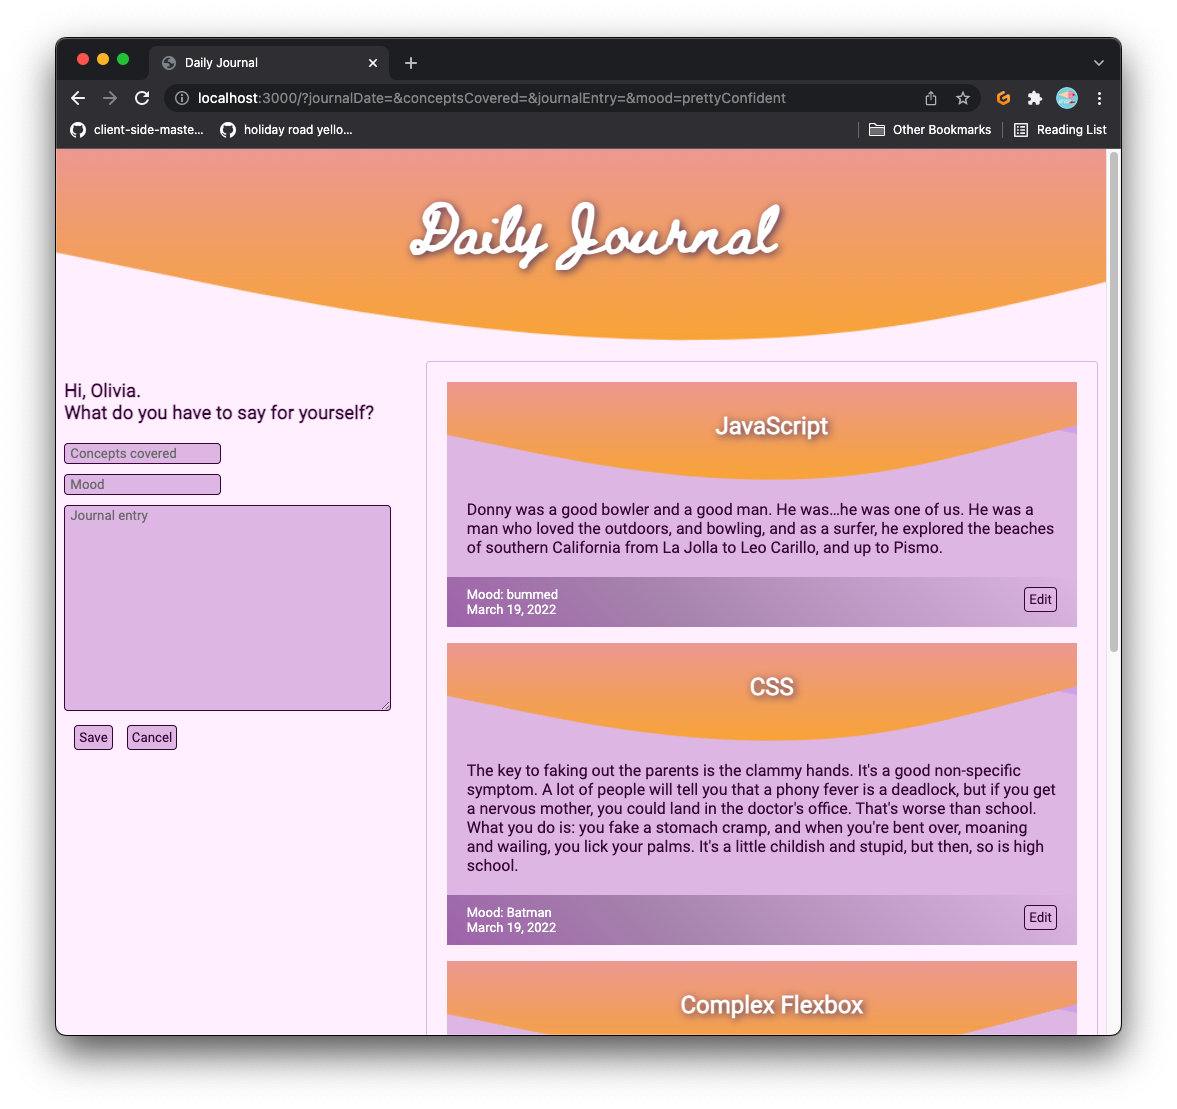
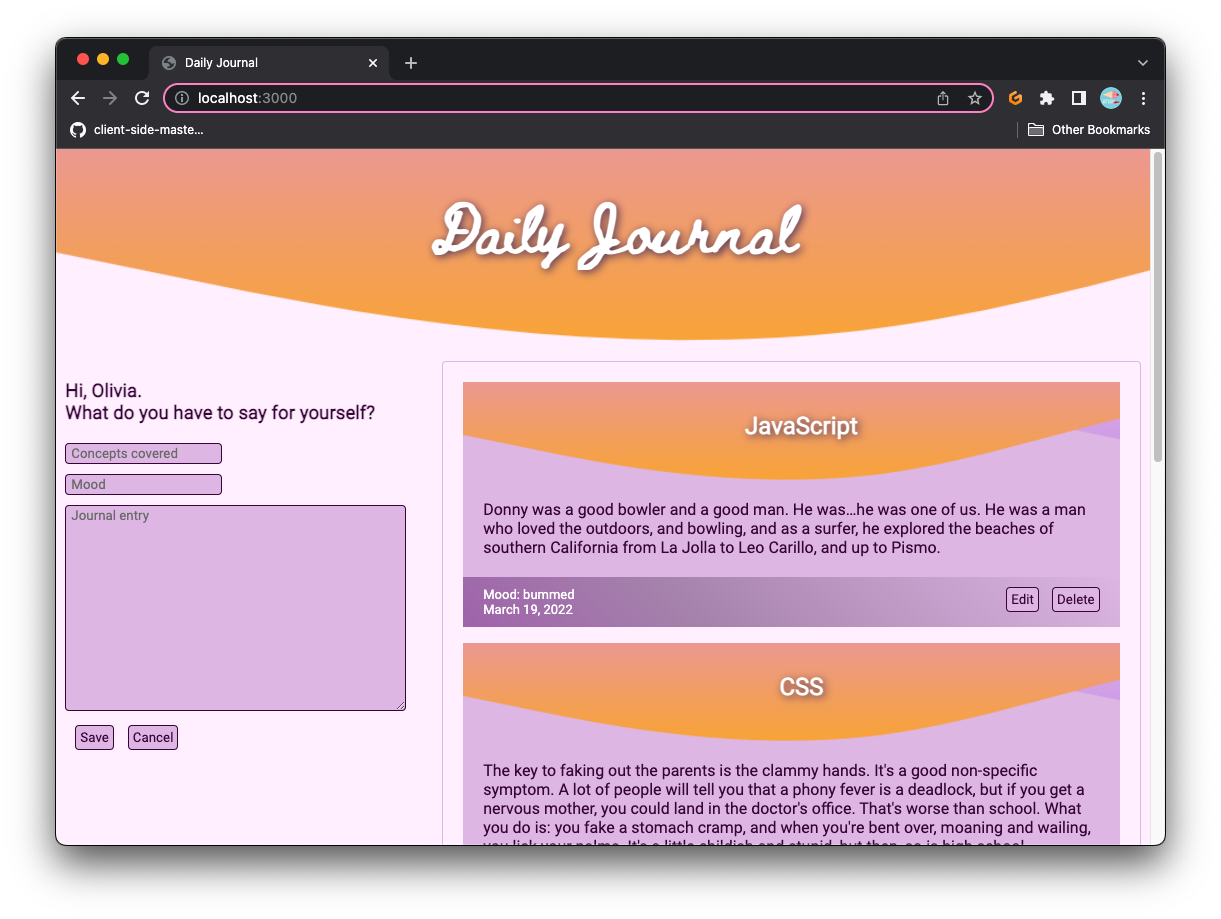
Edit and Delete post buttons now fully functional. Also updated screenshot in readme.

diff --git a/src/scripts/main.js b/src/scripts/main.js
@@ -1,6 +1,13 @@
-import { getPosts, createPost, deletePost } from "./data/DataManager.js";
+import {
+  getPosts,
+  createPost,
+  deletePost,
+  getSinglePost,
+  updatePost,
+} from "./data/DataManager.js";
 import { PostList } from "./feed/PostList.js";
 import { PostEntry } from "./feed/PostEntry.js";
+import { PostEdit } from "./feed/PostEdit.js";
 
 const showPostList = () => {
   //Get a reference to the location on the DOM where the list will display
@@ -40,18 +47,58 @@ const applicationElement = document.querySelector("main");
 applicationElement.addEventListener("click", (event) => {
   event.preventDefault();
   if (event.target.id.startsWith("delete")) {
-    const postId = event.target.id.split("--")[1];
+    const postId = event.target.id.split("__")[1];
     deletePost(postId).then((response) => {
       showPostList();
     });
   }
 });
 
-// clicks on the edit button
+// listens for clicks on the edit button and calls showEdit()
 applicationElement.addEventListener("click", (event) => {
+  event.preventDefault();
   if (event.target.id.startsWith("edit")) {
-    console.log("post clicked", event.target.id.split("--"));
-    console.log("the id is", event.target.id.split("--")[1]);
+    const postId = event.target.id.split("__")[1];
+    getSinglePost(postId).then((response) => {
+      showEdit(response);
+    });
+  }
+});
+
+// shows the post data to be edited in the edit form
+const showEdit = (postObj) => {
+  const entryElement = document.querySelector(".entryForm");
+  entryElement.innerHTML = PostEdit(postObj);
+};
+
+// listens for clicks on the update button once edit is complete
+applicationElement.addEventListener("click", (event) => {
+  event.preventDefault();
+  if (event.target.id.startsWith("updatePost")) {
+    const postId = event.target.id.split("__")[1];
+    //collect all the details into an object
+    const conceptsCovered = document.querySelector(
+      "input[name='postTitle']"
+    ).value;
+    const moodInput = document.querySelector("input[name='postMood']").value;
+    const entryText = document.querySelector(
+      "textarea[name='postDescription']"
+    ).value;
+    const timestamp = document.querySelector("input[name='postTime']").value;
+
+    const postObject = {
+      concept: conceptsCovered,
+      mood: moodInput,
+      entry: entryText,
+      // userId: getLoggedInUser().id,
+      timestamp: parseInt(timestamp),
+      id: parseInt(postId),
+    };
+
+    updatePost(postObject).then((response) => {
+      showPostList();
+      showPostEntry();
+    });
   }
 });
 
@@ -59,9 +106,7 @@ applicationElement.addEventListener("click", (event) => {
 applicationElement.addEventListener("click", (event) => {
   if (event.target.id === "newPost__cancel") {
     // clear the input fields
-    document.getElementById("conceptsCovered").value = "";
-    document.getElementById("mood").value = "";
-    document.getElementById("journalEntry").value = "";
+    showPostEntry();
   }
 });
 

diff --git a/src/scripts/feed/PostEdit.js b/src/scripts/feed/PostEdit.js
@@ -1,0 +1,32 @@
+export const PostEdit = (postObj) => {
+  return `
+	<div class="newPost">
+	<h3>Edit This Post</h3>
+		<div>
+			<input value="${postObj.concept}"
+				   name="postTitle"
+				   class="newPost__input"
+				   type="text"
+				   id="conceptsCovered"
+				   placeholder="Concepts covered" />
+		</div>
+		<div>
+			<input value="${postObj.mood}"
+				   name="postMood"
+				   class="newPost__input"
+				   type="text"
+				   id="mood"
+				   placeholder="Mood" />
+		</div>
+
+    	<textarea name="postDescription"
+    	class="newPost__input newPost__description" id="journalEntry" 
+    	placeholder="Journal entry">${postObj.entry}</textarea>
+		
+		<input type="hidden" value="${postObj.id}" name="postId">
+		<input type="hidden" value="${postObj.timestamp}" name="postTime">	
+		<button id="updatePost__${postObj.id}">Update</button>
+		<button id="newPost__cancel">Cancel</button>
+	</div>
+	`;
+};

diff --git a/src/scripts/data/DataManager.js b/src/scripts/data/DataManager.js
@@ -25,3 +25,24 @@ export const deletePost = (postId) => {
     },
   }).then((response) => response.json());
 };
+
+// EDIT POST
+
+// retrieves the post by id
+export const getSinglePost = (postId) => {
+  return fetch(`http://localhost:8088/posts/${postId}`).then((response) =>
+    response.json()
+  );
+};
+
+// will replace the data in the post with matching id rather than creating a new post (because we used "PUT" method instead of "POST")
+
+export const updatePost = (postObj) => {
+  return fetch(`http://localhost:8088/posts/${postObj.id}`, {
+    method: "PUT",
+    headers: {
+      "Content-Type": "application/json",
+    },
+    body: JSON.stringify(postObj),
+  }).then((response) => response.json());
+};

diff --git a/src/scripts/feed/Post.js b/src/scripts/feed/Post.js
@@ -28,9 +28,9 @@ export const Post = (postObject) => {
               monthNames[date.getMonth()]
             } ${date.getDate()}, ${date.getFullYear()}</div>
           </section>
-          <div id="post-btn-container>
-            <button id="edit--${postObject.id}">Edit</button>
-            <button id="delete--${postObject.id}">Delete</button>
+          <div>
+            <button id="edit__${postObject.id}">Edit</button>
+            <button id="delete__${postObject.id}">Delete</button>
           </div>
         </footer>
       </section>
